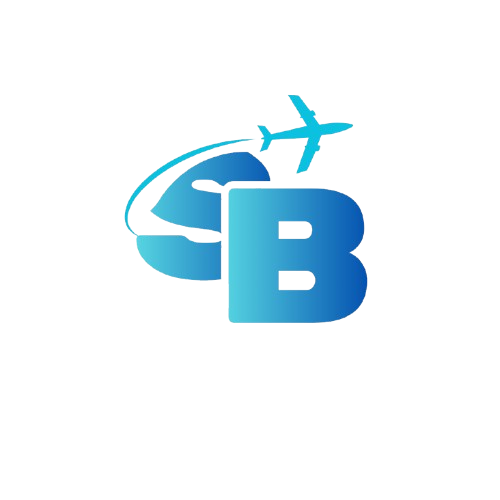
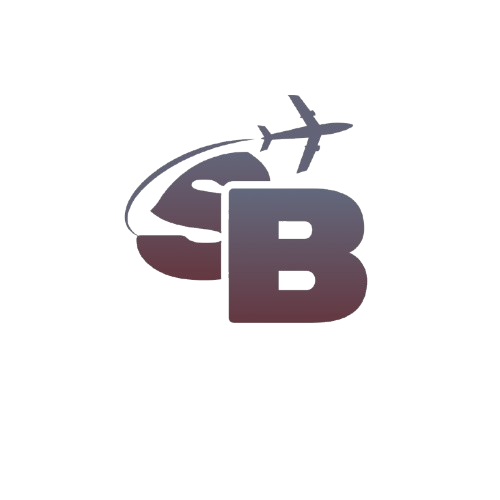
Refactor Nav styles for improved aesthetics and update Home component to use Button component

Changed region(s): [[0.24, 0.18, 0.75, 0.66], [0.27, 0.36, 0.3, 0.39]]

diff --git a/SkyBeacon/src/components/Nav.css b/SkyBeacon/src/components/Nav.css
@@ -13,25 +13,52 @@
   padding: 0;
   margin: 0;
   position: absolute;
-  left: 60%;
+  left: 50%;
+  top: 38%;
   transform: translateX(-50%);
 }
 
 .main-nav a {
-  color: rgba(77, 197, 221);
+  color: var(--slate-grey);
   text-decoration: none;
   font-family: var(--rubik);
   font-weight: 600;
   font-size: 1.3rem;
-  text-shadow: 0 2px 4px rgba(0, 0, 0, 0.8), 0 0 10px rgba(0, 0, 0, 0.6);
-  transition: text-shadow 0.3s ease, color 0.3s ease;
+
+  filter: drop-shadow(0px 4px 6px rgba(0, 0, 0, 0.8));
+
+  background-image: linear-gradient(
+    90deg,
+    var(--tan) 25%,
+    var(--red) 50%,
+    var(--text) 100%
+  );
+
+  background-size: 300% 100%;
+
+  background-position: 0% 50%;
+
+  background-clip: text;
+  -webkit-background-clip: text;
+
+  transition: background-position 0.6s ease-out, filter 0.3s ease,
+    color 0.3s ease;
 }
 
 .main-nav a:hover {
-  color: rgb(100, 221, 230);
-  text-shadow: 0 2px 6px rgba(50, 50, 50, 0.4), 0 0 15px rgba(79, 79, 79, 0.2);
+  color: transparent;
+
+  background-position: 100% 50%;
+
+  filter: drop-shadow(0px 0px 8px rgba(100, 34, 38, 0.6));
 }
 
 .nav-logo {
-  width: 130px;
+  width: 120px;
+  transition: filter 0.3s ease, transform 0.3s ease;
+}
+
+.nav-logo:hover {
+  filter: brightness(1.1) drop-shadow(0px 0px 8px rgba(70, 70, 69, 0.5));
+  transform: scale(1.02);
 }

diff --git a/SkyBeacon/src/pages/home/Home.jsx b/SkyBeacon/src/pages/home/Home.jsx
@@ -1,5 +1,6 @@
 import '../../index.css';
 import './Home.css';
+import Button from '../../components/Button.jsx';
 
 const Home = ({ flights }) => {
   const totalFlights = flights ? flights.length : 0;
@@ -12,7 +13,7 @@ const Home = ({ flights }) => {
       </div>
       <div className="bottom">
         <h4>Currently tracking {totalFlights} flights</h4>
-        <button className="flight-button">VIEW FLIGHTS</button>
+        <Button text="VIEW FLIGHTS"></Button>
       </div>
     </>
   );
